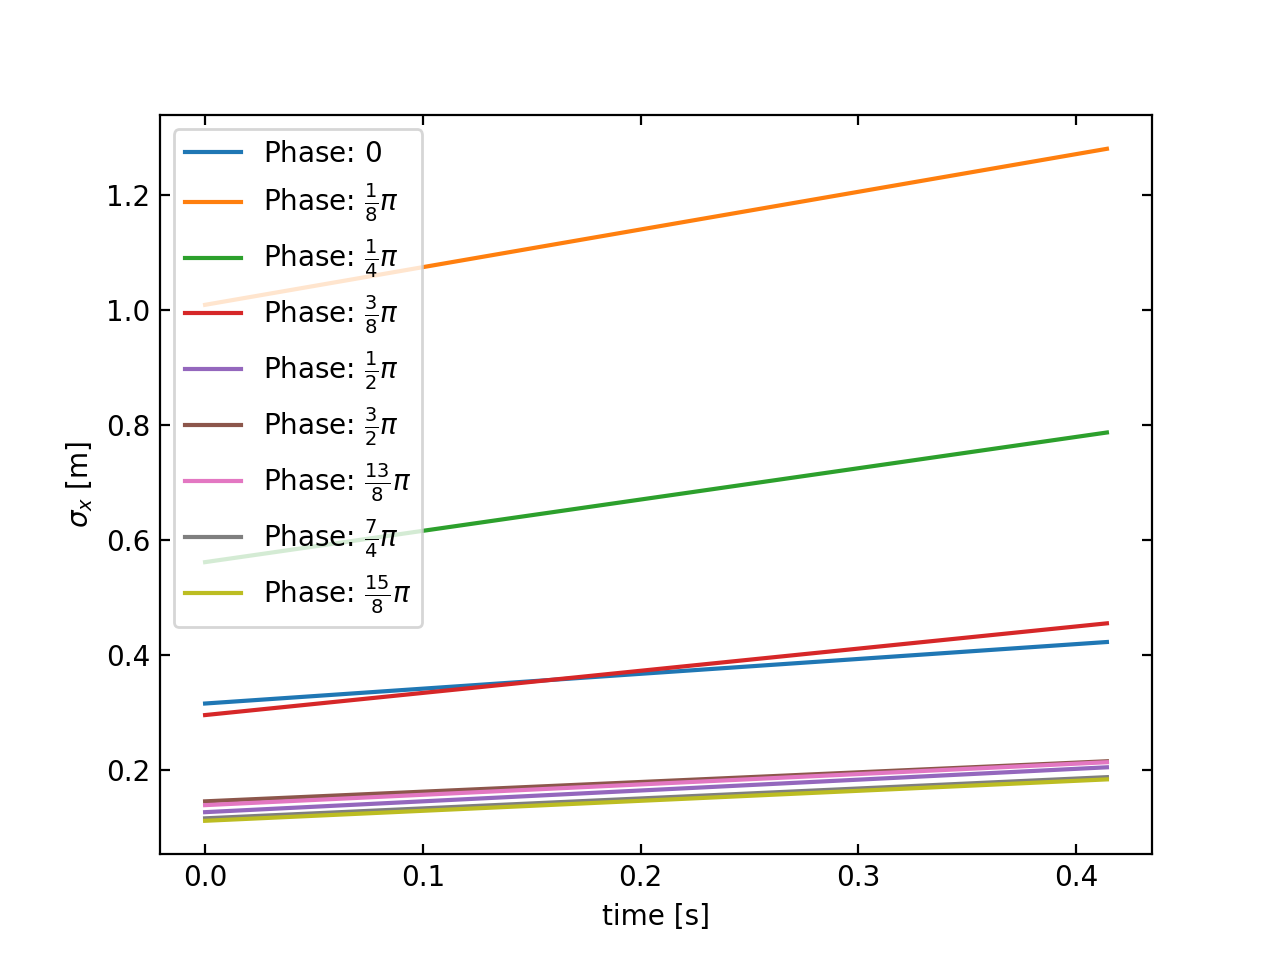
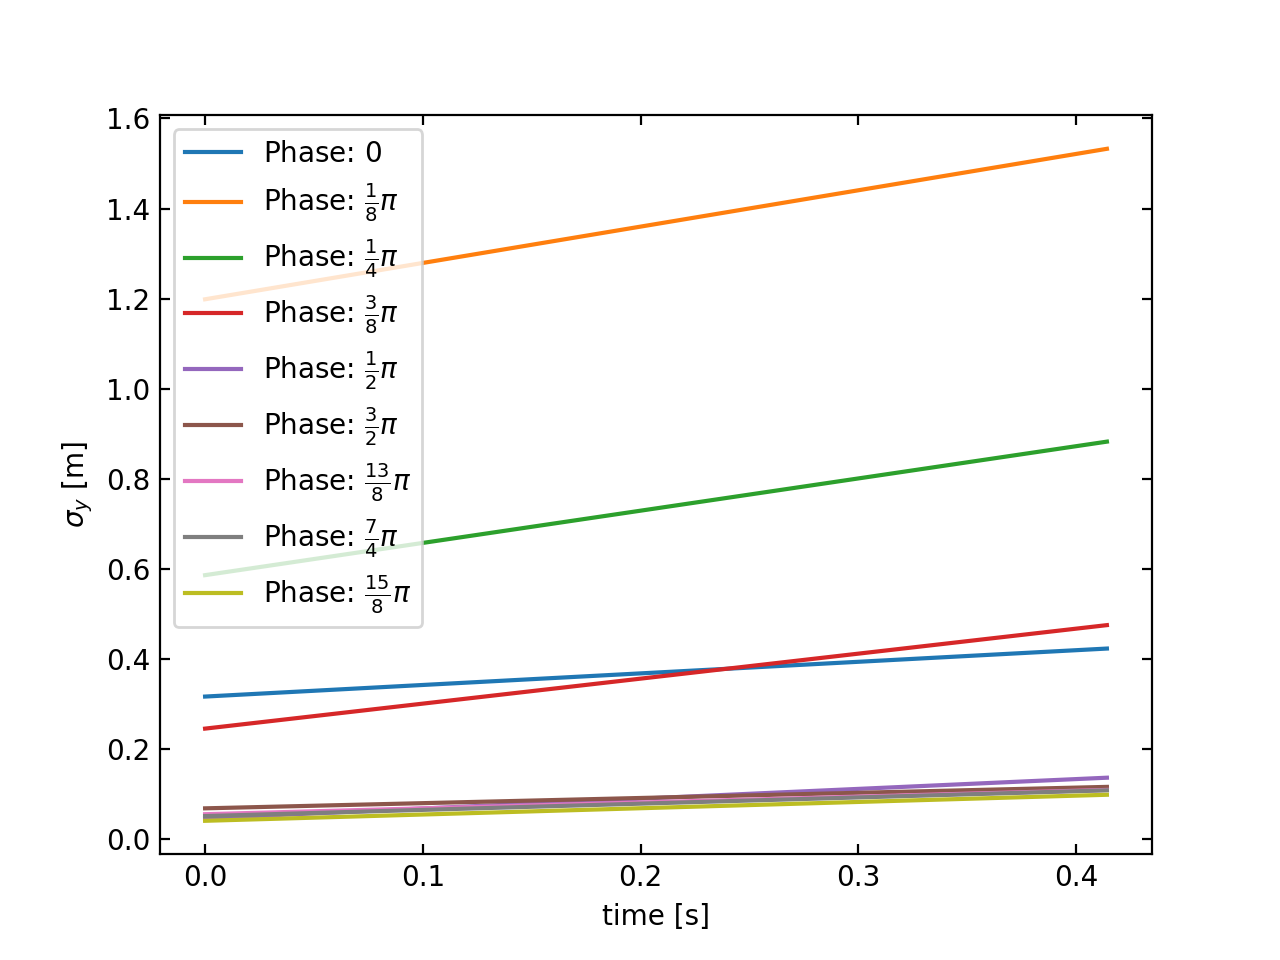
Corrected inital kinetic energy

diff --git a/Project/analyse_phase.py b/Project/analyse_phase.py
@@ -31,11 +31,11 @@ phase_dict = {phase_keys[i]:phase_values[i] for i in range(len(phase_keys)) if n
 phases = list(phase_dict.values())
 
 def generate_file(phases):
-    field = EMField([.1,0,0], [0,0,1.6*10**(-5)], [-0.026,0.026]) 
-    protons = ProtonBunch(0.0047,100)
+    field = EMField([.1,0,0], [0,0,1.6*10**(-5)]) 
+    protons = ProtonBunch(0.047,100)
     inital_bunch = copy.deepcopy(protons)
 
-    deltaT, duration = 10**(-5), 0.0041*101
+    deltaT, duration = 10**(-5), 0.0041*100
     timeSeries = []
     positionSpread = []
     energySpread = []
@@ -55,7 +55,7 @@ def generate_file(phases):
             if angle == phases[0]: # only save data to the time series on the first iteration
                 timeSeries.append(time)
             field.getAcceleration(protons.bunch, time, deltaT)
-            protons.update(deltaT,field,time)
+            protons.update(deltaT,field,time,2)
             temp_spread = copy.deepcopy(protons.positionSpread())
             temp_energy = copy.deepcopy(protons.energySpread())
             loop_1.append(temp_spread)
@@ -78,10 +78,10 @@ energies = simulation_data['energies']
 
 plt.figure('Phase Position Spreads')
 for (i,phase) in zip(positions,phase_dict.keys()):
-    x_spread = [j[1] for j in i]
-    plt.plot(timeSeries,x_spread,label='Phase: '+ phase)
+    y_spread = [j[1] for j in i]
+    plt.plot(timeSeries,y_spread,label='Phase: '+ phase)
 plt.xlabel('time [s]')
-plt.ylabel(r'$\sigma_x$ [m]')
+plt.ylabel(r'$\sigma_y$ [m]')
 plt.legend(loc='upper left')
 plt.tick_params(which='both',direction='in',right=True,top=True)
 
@@ -95,13 +95,13 @@ plt.tick_params(which='both',direction='in',right=True,top=True)
 
 plt.figure('Linear Position Phase Spreads')
 for (i,phase) in zip(positions,phase_dict.keys()):
-    x_spread = [j[0] for j in i]
+    x_spread = [j[1] for j in i]
     linear_fit = np.polynomial.polynomial.Polynomial.fit(timeSeries,x_spread,1)
     line = np.poly1d(linear_fit.coef)
     spread = [line(t) for t in timeSeries]
     plt.plot(timeSeries,spread,label='Phase: '+phase)
 plt.xlabel('time [s]')
-plt.ylabel(r'$\sigma_x$ [m]')
+plt.ylabel(r'$\sigma_y$ [m]')
 plt.legend(loc='upper left')
 plt.tick_params(which='both',direction='in',right=True,top=True)
 
@@ -131,17 +131,5 @@ plt.ylim(-1.25,1.25)
 plt.xlabel(r'$\theta$ (radians)')
 plt.legend(loc='lower left')
 plt.tick_params(which='both',direction='in',right=True,top=True)
-
-# format plots so that they look similar to QtiPlot
-matplotlib.rcParams['lines.linewidth'] = 6
-matplotlib.rcParams['axes.linewidth'] = 2.0
-matplotlib.rcParams['xtick.major.size'] = 9
-matplotlib.rcParams['xtick.minor.size'] = 5
-matplotlib.rcParams['xtick.major.width'] = 1.9
-matplotlib.rcParams['xtick.minor.width'] = 1.3
-matplotlib.rcParams['ytick.major.size'] = 9
-matplotlib.rcParams['ytick.minor.size'] = 4
-matplotlib.rcParams['ytick.major.width'] = 1.9
-matplotlib.rcParams['ytick.minor.width'] = 1.3
 
 plt.show()

diff --git a/Project/constantB.py b/Project/constantB.py
@@ -6,8 +6,8 @@ import copy
 from EMField import EMField
 from ProtonBunch import ProtonBunch
 
-field = EMField([0,0,0], [0,0,1.6*10**(-5)],[0,0]) 
-protons = ProtonBunch(0.0047,1)
+field = EMField([0,0,0], [0,0,1.6*10**(-5)]) 
+protons = ProtonBunch(0.047,1)
 
 log.logger.info('Initial average kinetic energy: %s eV' % protons.KineticEnergy())
 log.logger.info('Initial average momentum: %s kg m/s' % protons.momentum())
@@ -15,7 +15,7 @@ log.logger.info('Initial average position %s m' % protons.averagePosition())
 log.logger.info('Initial bunch position spread: %s m' % protons.positionSpread())
 log.logger.info('Initial bunch energy spread: %s eV' % protons.energySpread())
 
-time, deltaT, duration = 0, 10**(-4), 0.0042
+time, deltaT, duration = 0, 10**(-5), 0.0042
 
 inital_bunch = copy.deepcopy(protons)
 
@@ -28,7 +28,7 @@ while time <= duration:
     time += dt
     timeSeries.append(time)
     field.getAcceleration(protons.bunch, time, dt)
-    protons.update(dt,field,time,2)
+    protons.update(dt,field,time,3)
     temp_bunch = copy.deepcopy(protons)
     Data.append(temp_bunch)
 

diff --git a/Project/RecordCyclotron.py b/Project/RecordCyclotron.py
@@ -7,8 +7,8 @@ import copy
 from EMField import EMField
 from ProtonBunch import ProtonBunch
 
-field = EMField([.1,0,0], [0,0,1.6*10**(-5)], [-0.104,0.104]) 
-protons_1 = ProtonBunch(0.0047,100) ; protons_2 = copy.deepcopy(protons_1)
+field = EMField([.1,0,0], [0,0,1.6*10**(-5)]) 
+protons_1 = ProtonBunch(0.047,100) ; protons_2 = copy.deepcopy(protons_1)
 protons_3 = copy.deepcopy(protons_1) ; protons_4 = copy.deepcopy(protons_1)
 
 log.logger.info('Initial average kinetic energy: %s eV' % protons_1.KineticEnergy())

diff --git a/Project/EMField.py b/Project/EMField.py
@@ -14,7 +14,7 @@ class EMField:
 
     def __init__(self, ElectricField = np.array([0,0,0], dtype=float), 
                 MagneticField = np.array([0,0,0], dtype=float), 
-                ElectricFieldWidth = np.array([-0.104,0.104], dtype=float),
+                ElectricFieldWidth = np.array([-0.098,0.098], dtype=float),
                 ElectricFieldPhase=0):
         self.magnetic = np.array(MagneticField,dtype=float)
         self.electric = np.array(ElectricField,dtype=float)

diff --git a/Project/analyse_timestep.py b/Project/analyse_timestep.py
@@ -17,7 +17,7 @@ step_dict = {step_strings[i]:timesteps[i] for i in range(len(timesteps))}
 
 def generate_file():
     field = EMField([0,0,0], [0,0,1.6*10**(-5)], [0,0]) 
-    protons = ProtonBunch(0.0047,100)
+    protons = ProtonBunch(0.047,100)
     inital_bunch = copy.deepcopy(protons)
 
     duration = 0.0041*100
